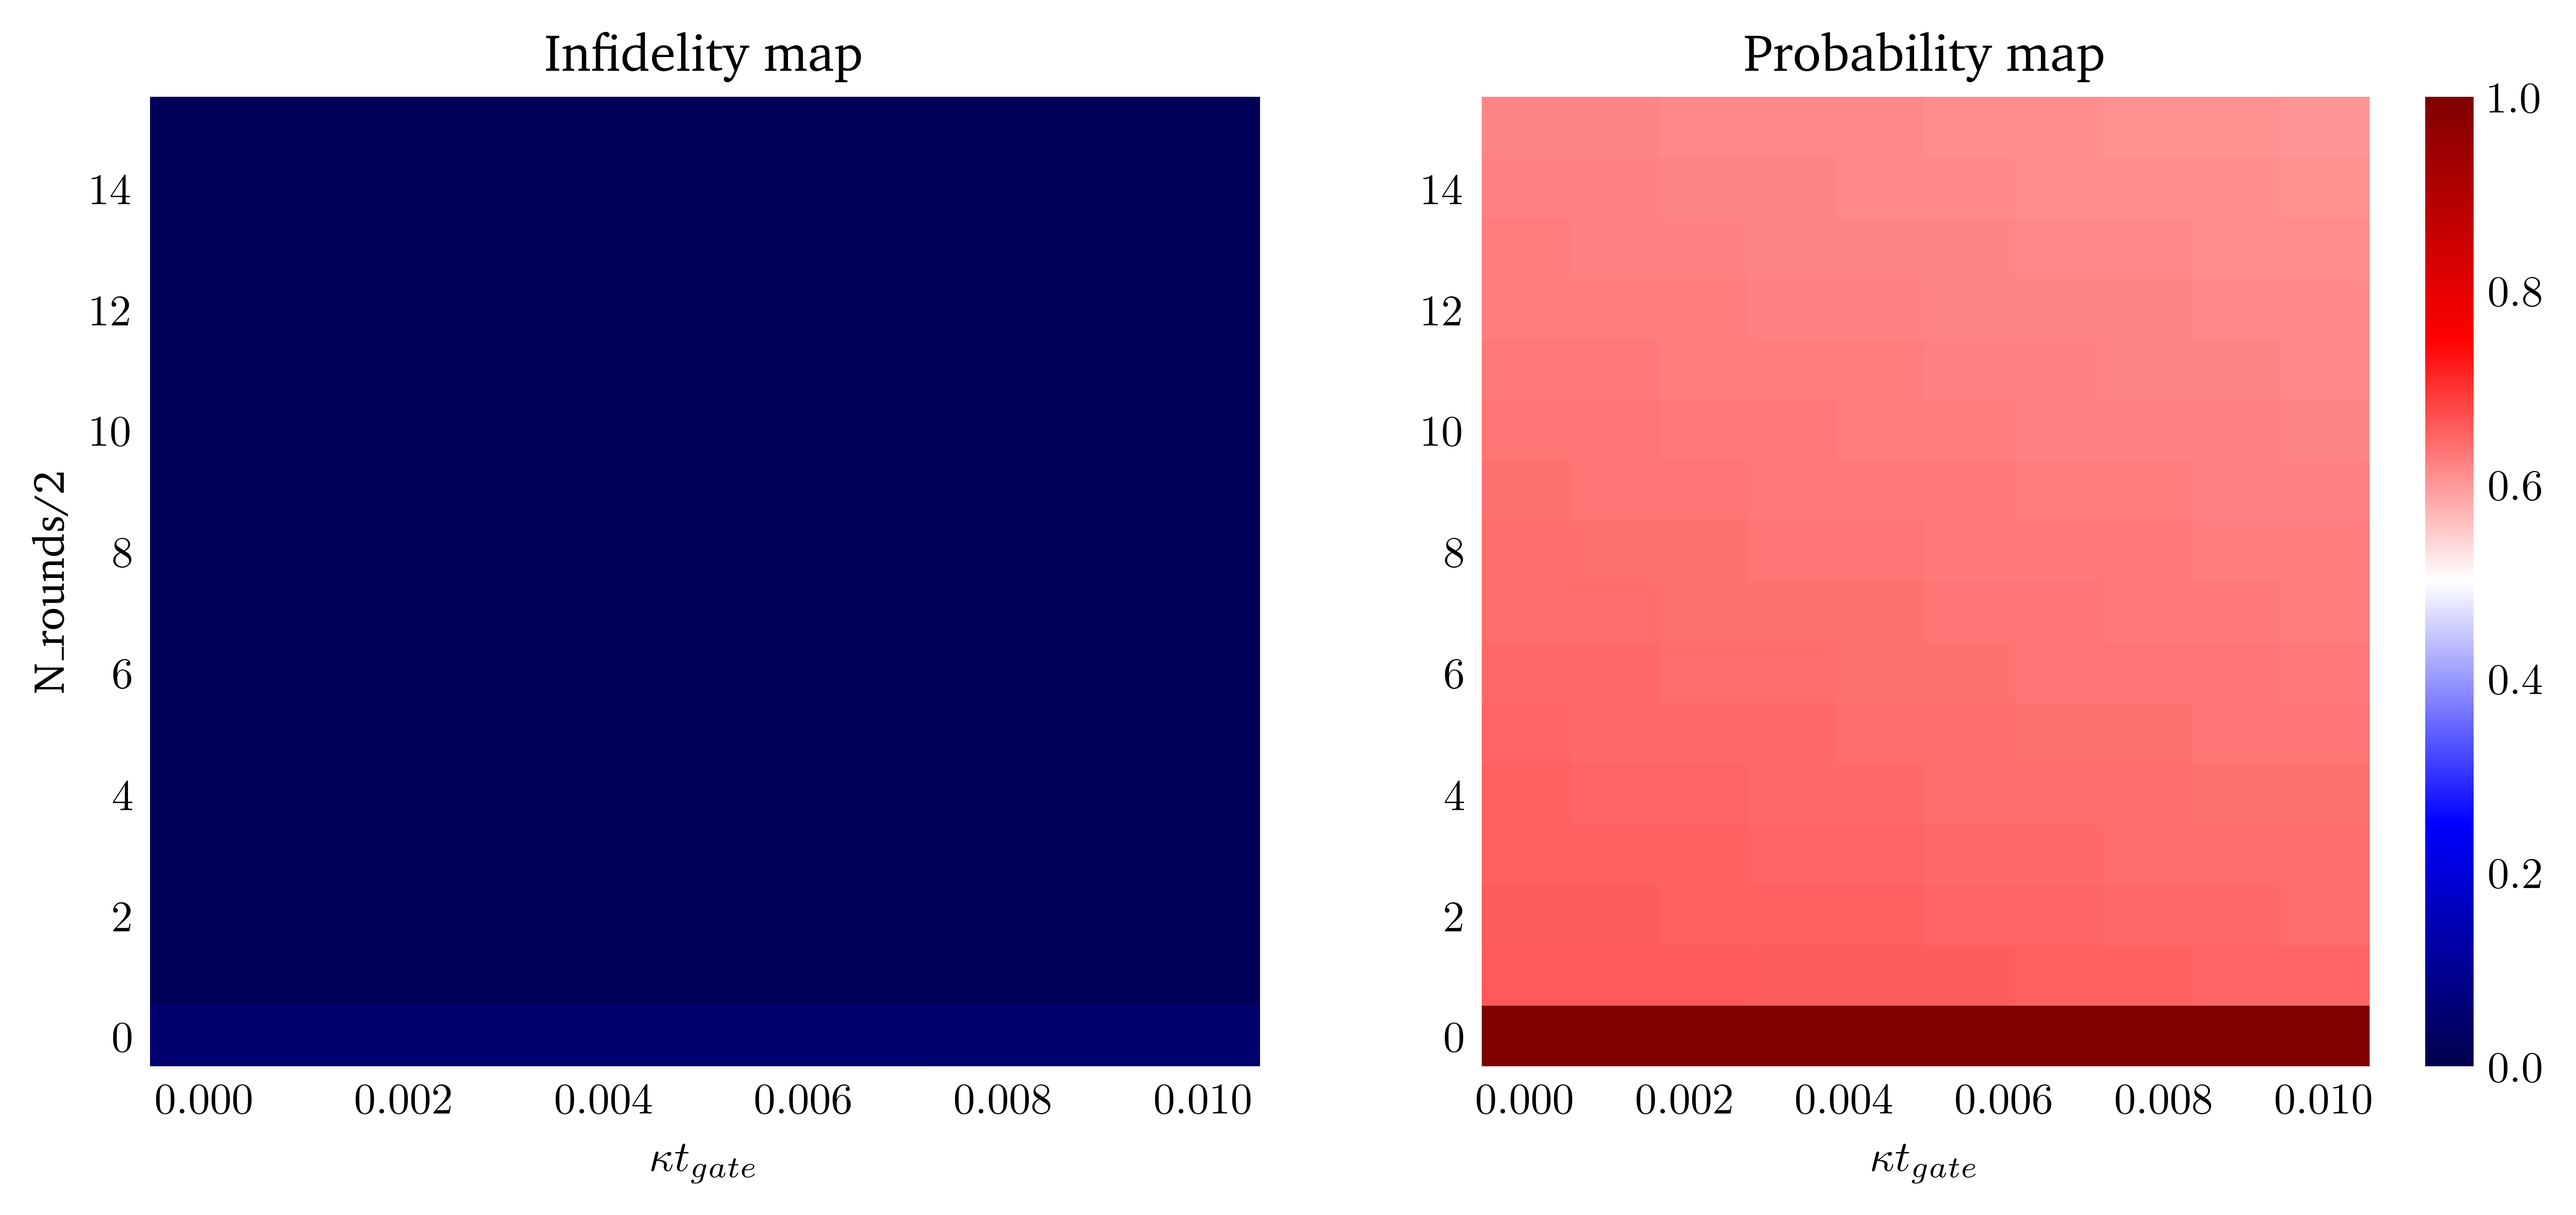
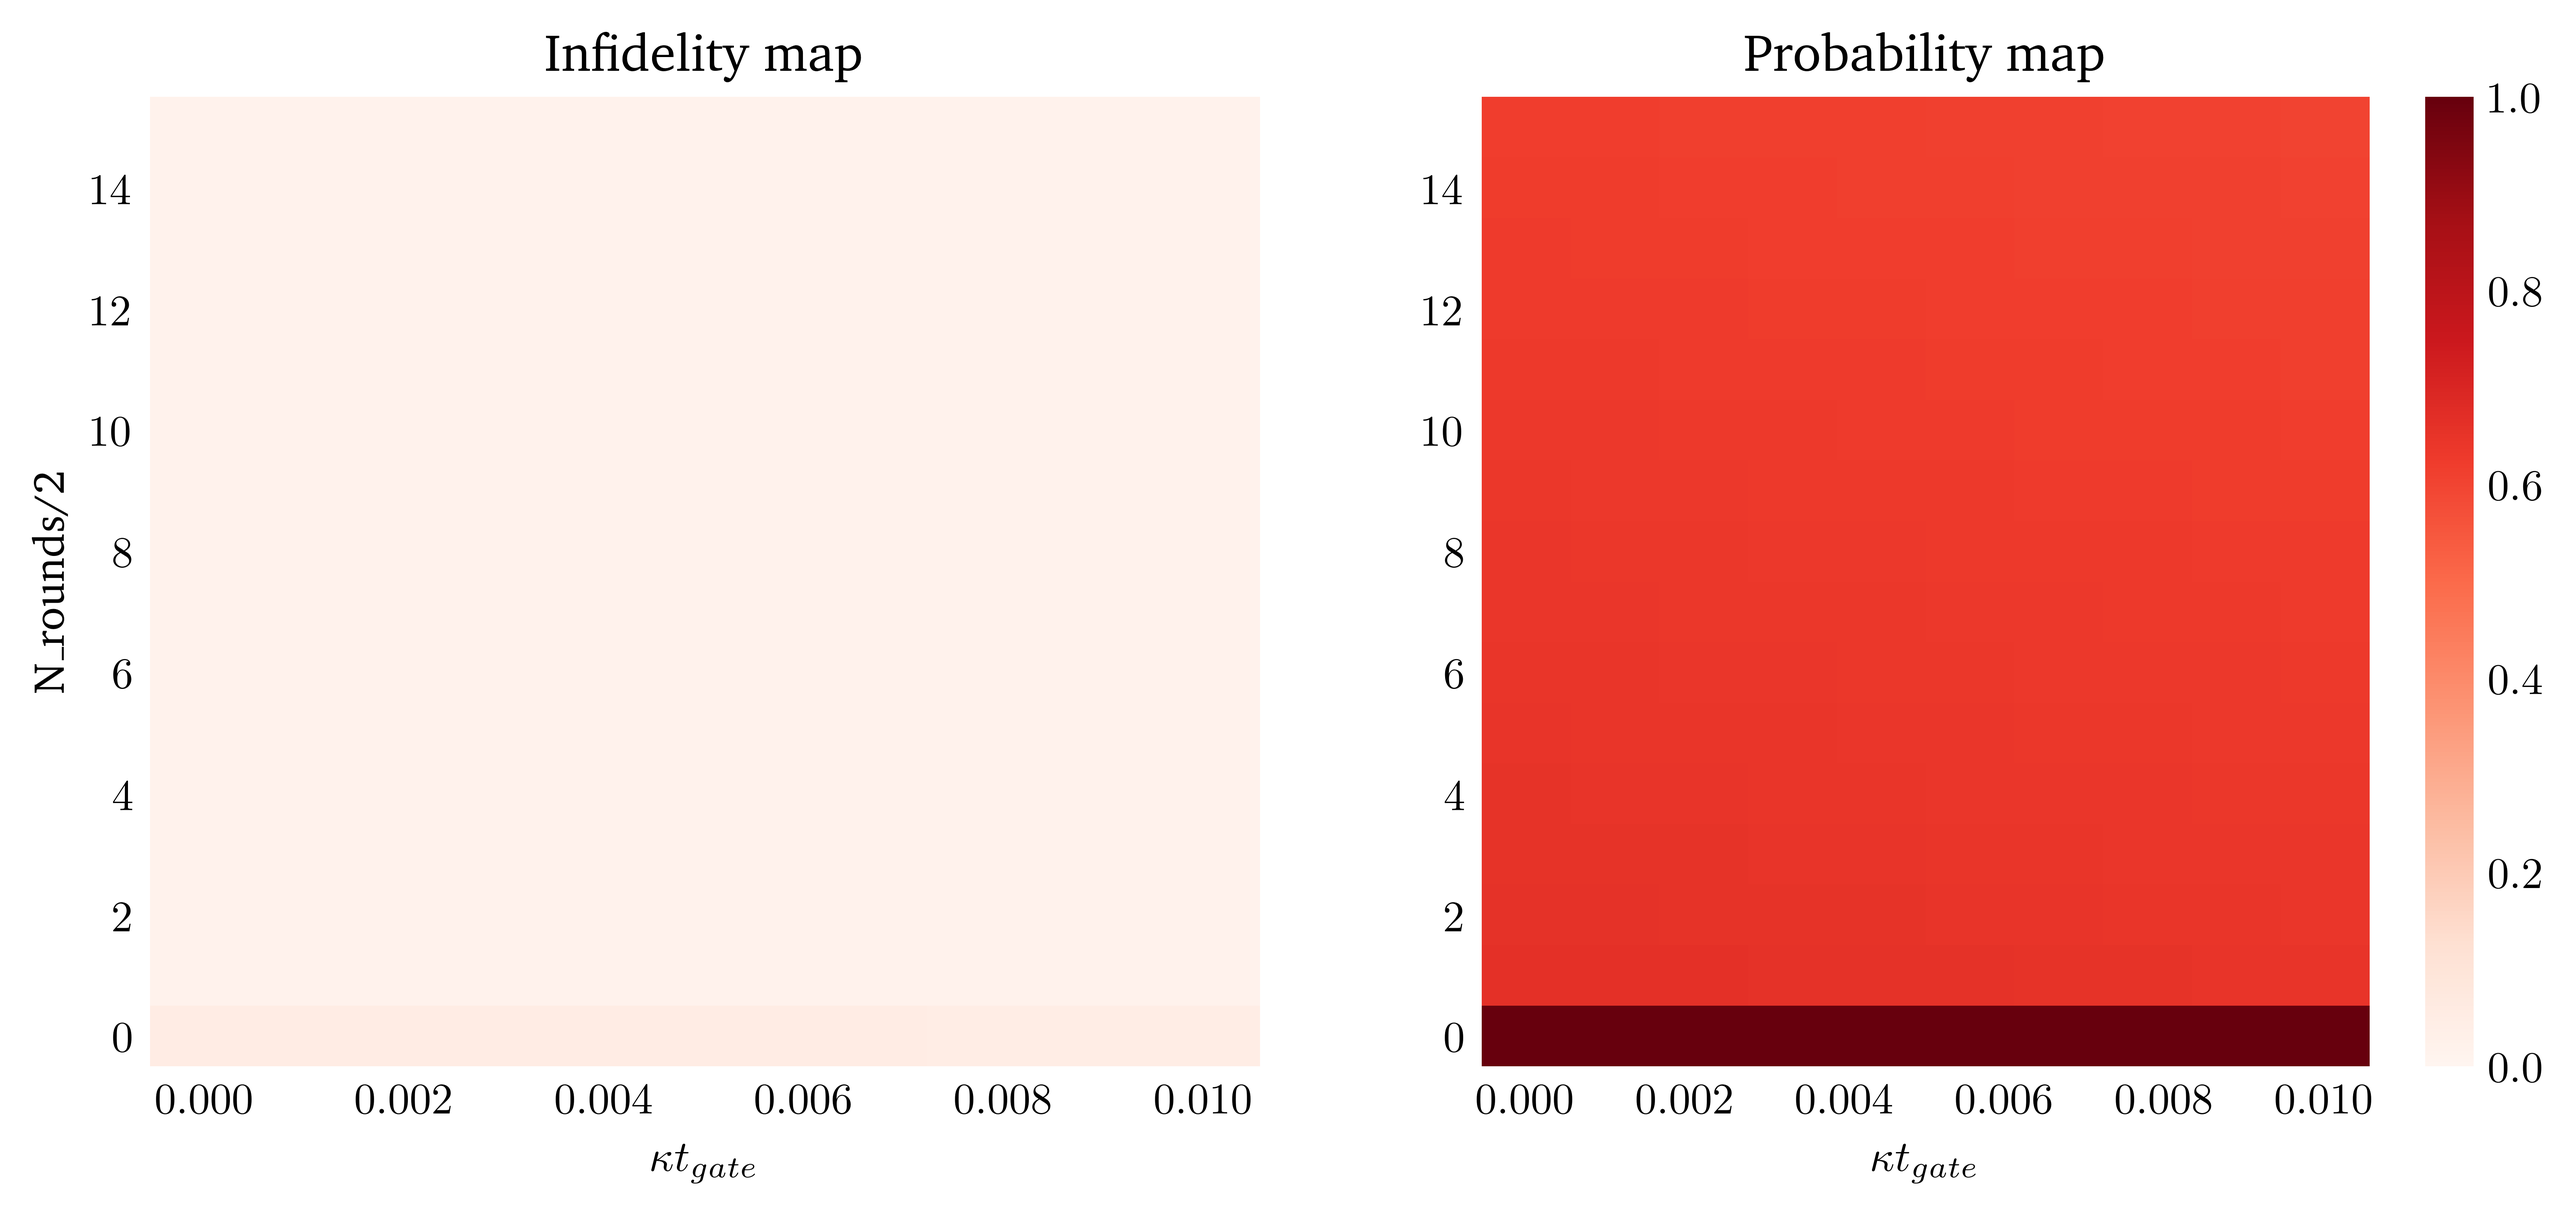
summary_gg_results

diff --git a/stage_baptiste/projects/Kraus_codes/color_maps/colors_maps_analysis.py b/stage_baptiste/projects/Kraus_codes/color_maps/colors_maps_analysis.py
@@ -12,8 +12,8 @@ from qutip import *
 from stage_baptiste.homemades.finite_GKP import GKP, KrausGKP
 from stage_baptiste.homemades.KrausOperator_JV import *
 
-# one error correcting procedure
-"""
+"""# one error correcting procedure
+
 d = 2
 j = 0
 delta = 0.15
@@ -27,9 +27,9 @@ tgate = pi/16
 max_error_rate = 0.01
 max_N_rounds = 30
 
-fig_name = "ks_pios_gg_cmap_perfect_ref_notmapped"
-tr_fig_name = "ks_pios_gg_traces_perfect_ref_notmapped"
-fig_path = f"/Users/jeremie/Desktop/Stage_Baptiste/stage_baptiste/projects/Kraus_codes/color_maps/figs/direct_gate"
+fig_name = "ks_pios_gg_cmap_perfect_ref_mapped"
+tr_fig_name = "ks_pios_gg_traces_perfect_ref_mapped"
+fig_path = f"/Users/jeremie/Desktop/Stage_Baptiste/stage_baptiste/projects/Kraus_codes/color_maps/figs/direct_gate/"
 ground = basis(2,0)
 sqrtH = np.cos(np.pi/4)*qeye(2) - 1j*np.sin(np.pi/4)*(sigmax()+sigmaz())/np.sqrt(2)
 bqr = sqrtH*ground*ground.dag()*sqrtH.dag()
@@ -49,14 +49,15 @@ perf_pi_o_s = 1/2*(c0*GKP(d,0,delta,hilbert_dim).state+c1*GKP(d,1,delta,hilbert_
 rho_ref = ket2dm(perf_pi_o_s)
 
 # bqr in not useful in the calculation
-fid_arr,prob_arr,params,last_state = get_fid_n_prob_data(kGKP_obj, H, tgate, max_error_rate, max_N_rounds,
-                                              kap_num=10, mode='gg',reference_state=rho_ref,qubit_mapping=False,bqr=bqr,pi_o_s=True)
+fid_arr,prob_arr,last_state,params = get_fid_n_prob_data(kGKP_obj, H, tgate, max_error_rate, max_N_rounds,
+                                              kap_num=10, mode='gg',reference_state=rho_ref,qubit_mapping=True,bqr=bqr,pi_o_s=True)
 plot_cmaps(fid_arr,prob_arr,*params,
-           mode='gg',fig_path=fig_path,pi_o_s=True,
+           mode='gg',fig_path=fig_path,halfs_only=True,
            fig_name=fig_name,save=True,show=False)
 
-plot_fid_traces(fid_arr,*params,traces_ix=[[0,2,4,6,8],[2,4,6,8]],pi_o_s=True,
+plot_fid_traces(fid_arr,*params,traces_ix=[[0,2,4,6,8],[2,4,6,8]],halfs_only=True,
                 fig_path=fig_path,traces_fig_name=tr_fig_name,save=True,show=False)
+
 """
 
 # error correcting procedure in two steps
@@ -97,7 +98,7 @@ exp = np.exp(1j*pi/4)
 # perf_pi_o_s = 1/2*(c0*GKP(d,0,delta,hilbert_dim).state+c1*GKP(d,1,delta,hilbert_dim).state+c2*GKP(d,2,delta,hilbert_dim).state+c3*GKP(d,3,delta,hilbert_dim).state)
 # rho_ref = ket2dm(perf_pi_o_s)
 options = Options(nsteps=2000)
-rho_ref = mesolve(-H, kGKP_obj.state, np.linspace(0, tgate, 10), [], [], options=options).states[-1]
+rho_ref = mesolve(-H, kGKP_obj.state, np.linspace(0, pi/8, 10), [], [], options=options).states[-1]
 
 # bqr and rho_ref
 # not useful in the calculation
@@ -152,4 +153,3 @@ plot_cmaps(fid_arr2,prob_arr2,*params2,
 
 plot_fid_traces(fid_arr2,*params2,traces_ix=[[0,2,4,6,8],[2,4,6,8]],halfs_only=True,
                 fig_path=fig_path,traces_fig_name=tr_fig_name,save=True,show=False)
-

diff --git a/stage_baptiste/homemades/KrausOperator_JV.py b/stage_baptiste/homemades/KrausOperator_JV.py
@@ -375,8 +375,8 @@ def plot_cmaps(fid_arr,prob_arr,*params,mode='gg',halfs_only=False,fig_path=None
             ax.set_ylabel("N_rounds/2")
     elif mode == 'gg':
         fig, axs = plt.subplots(1, 2, figsize=(10, 4))
-        cff = axs[0].pcolormesh(xvec,yvec,fid,norm=mpl.colors.Normalize(0,1),cmap="seismic")
-        cfp = axs[1].pcolormesh(xvec, yvec, pro,norm=mpl.colors.Normalize(0,1),cmap="seismic")
+        cff = axs[0].pcolormesh(xvec,yvec,fid,norm=mpl.colors.Normalize(0,1),cmap="Reds")
+        cfp = axs[1].pcolormesh(xvec, yvec, pro,norm=mpl.colors.Normalize(0,1),cmap="Reds")
         fig.colorbar(cfp, ax=axs[1])
         axs[0].set_title("Infidelity map")
         axs[1].set_title("Probability map")
